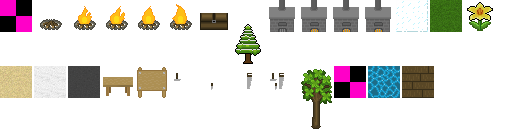
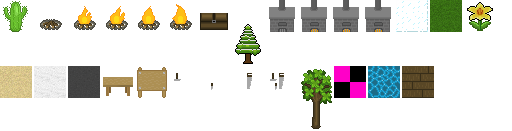
feat: add cactus texture

Changed region(s): [[0.0, 0.0, 0.0625, 0.2443]]

diff --git a/src/game/registry/block_registry.rs b/src/game/registry/block_registry.rs
@@ -1,4 +1,5 @@
 use bevy::prelude::*;
+use bevy_firefly::occluders::{Occluder2d, Occluder2dShape};
 use bevy_rapier2d::prelude::Collider;
 
 use crate::{constants::TILE_SIZE, game::registry::Registry};
@@ -160,6 +161,8 @@ pub fn init_blocks(mut commands: Commands) {
     inner.insert(
         BlockDefinition {
             name: "cactus",
+            collider: collider_with_offset(Collider::cuboid(5.0, 2.5), Vec2::new(0.0, -13.0)),
+            occluders: vec![Occluder::new(Vec2::new(6.0, 6.0), Vec2::new(0.0, -12.0))],
             ..default()
         },
         "cactus",
